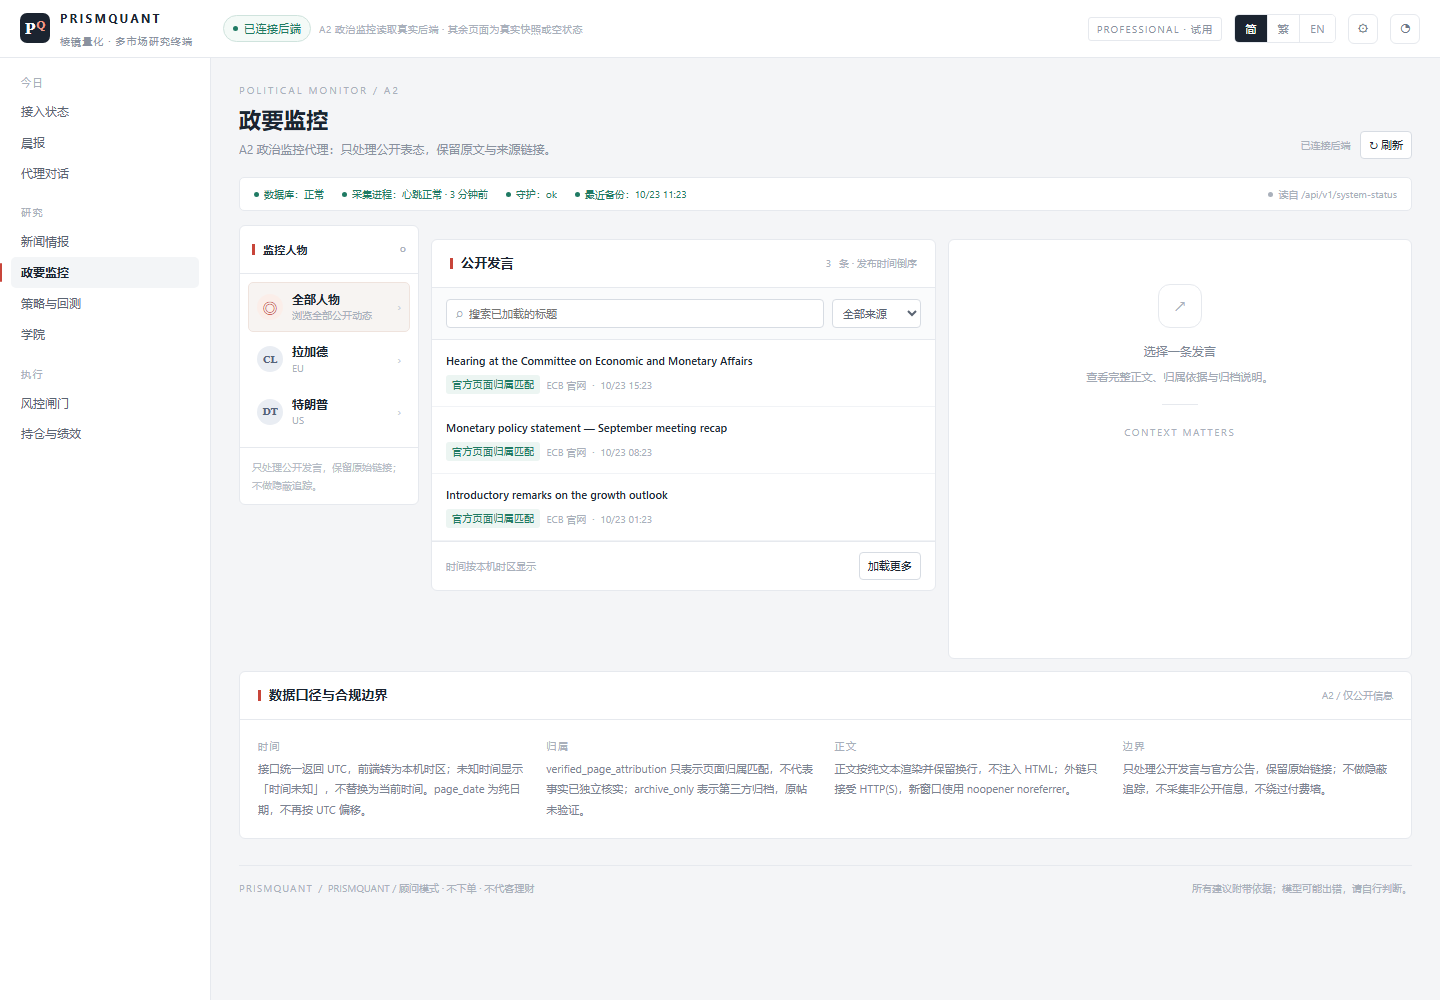
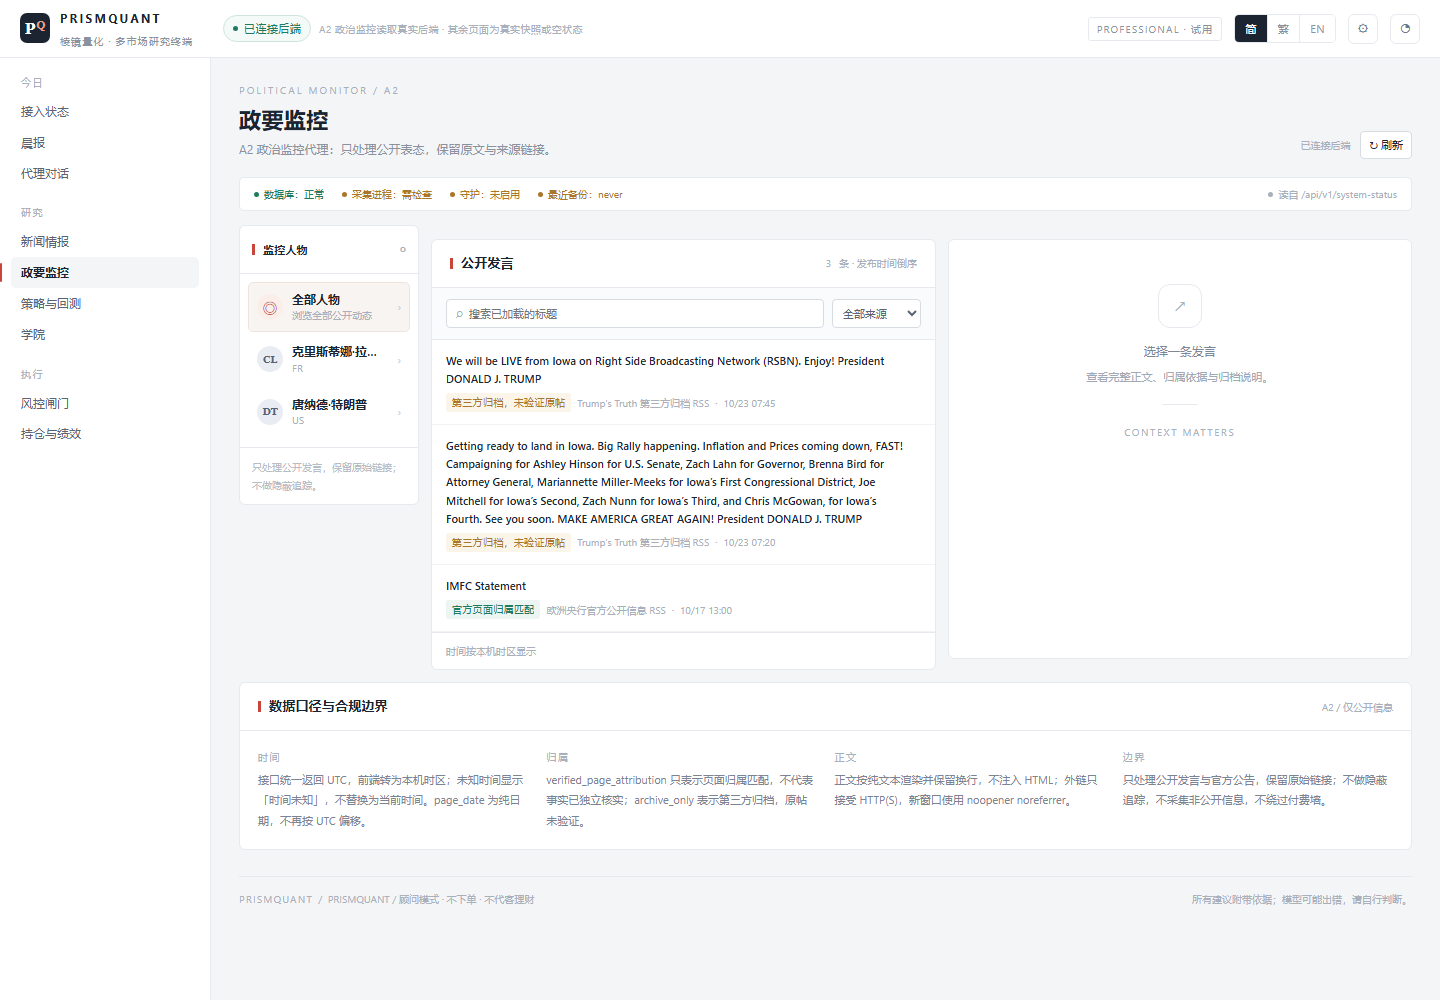
docs: record the first end-to-end run of A2
PostgreSQL 18 initialised, migrations to 0008, seeds applied, and a real
collection written 3 records from the ECB press feed and the Trump archive.
Screenshot of the live page added; README documents the exact steps and the
fact that GitHub Pages cannot reach a local API.

diff --git a/README.md b/README.md
@@ -194,6 +194,21 @@ python tools/api_server.py --news-db "<...>\news.sqlite3" --curve "<...>\curve.c
 
 「空狀態」不是一片空白，是一張表：**需要什麼 / 誰提供 / 現狀**。
 
+## 本機實跑記錄（2026-10-23）
+
+政要監控這一頁不是示意，是當天真跑出來的：
+
+| 步驟 | 結果 |
+|---|---|
+| PostgreSQL 18 建叢集 | `prismquant_political`，9 張表，alembic 升到 `0008_history_import` |
+| 種子 | 2 位人物（拉加德、特朗普）、2 個來源（ECB 新聞 RSS、Trump's Truth 歸檔 RSS） |
+| 採集 | 實際抓取並寫入：ECB「IMFC Statement」（官方頁面歸屬）、2 條 Trump 歸檔貼文 |
+| API | `python -X utf8 -m app` 跑在 `:8000`，`/health`、`/people`、`/public-records` 全部 200 |
+| 前端 | 從 `localhost:5173` 加 `?api=http://127.0.0.1:8000` 連上，畫面上就是這三條 |
+
+**注意**：GitHub Pages 上連不到 `127.0.0.1:8000`，所以線上版這一頁仍是空狀態。
+要看到上面那張截圖，必須在本機同時開著 PostgreSQL 與 API。
+
 ## 已知不足
 
 1. **九頁裡有五頁目前是空的**：A1 要一次採集導出、A2 要啟動後端並跑採集、

diff --git a/README.en.md b/README.en.md
@@ -145,6 +145,21 @@ state that names what is missing — no invented NAV, positions, limits or headl
 | Portfolio | simulated account | empty state |
 | Academy | four articles (authored content) | — |
 
+## What was actually run (2026-10-23)
+
+The political-watch page is not a mock-up. On this date, end to end:
+
+| Step | Result |
+|---|---|
+| PostgreSQL 18 cluster | `prismquant_political`, 9 tables, alembic at `0008_history_import` |
+| Seeds | 2 people (Lagarde, Trump), 2 sources (ECB press RSS, Trump's Truth archive RSS) |
+| Collection | Real records written: ECB "IMFC Statement" (verified page attribution) and two archived Trump posts |
+| API | `python -X utf8 -m app` on `:8000`; `/health`, `/people`, `/public-records` all 200 |
+| Client | Served from `localhost:5173` with `?api=http://127.0.0.1:8000` — the screenshot shows those records |
+
+Note: GitHub Pages cannot reach `127.0.0.1:8000`, so the hosted build still shows the
+empty state on that page. The screenshot requires the local stack to be running.
+
 ## Known gaps
 
 1. **Five of the nine pages are empty right now**: A1 needs one collection export,
